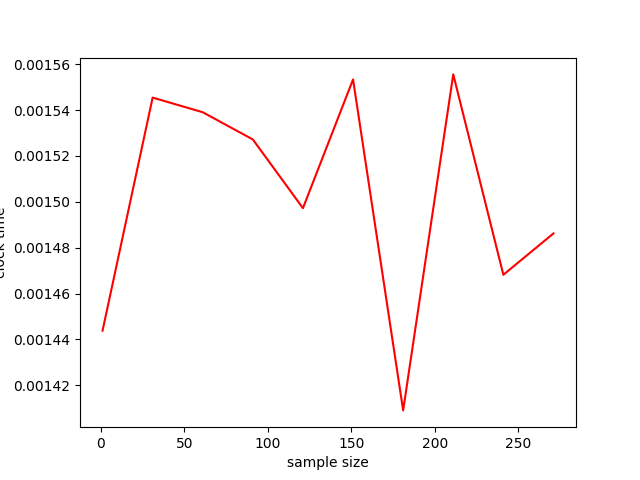
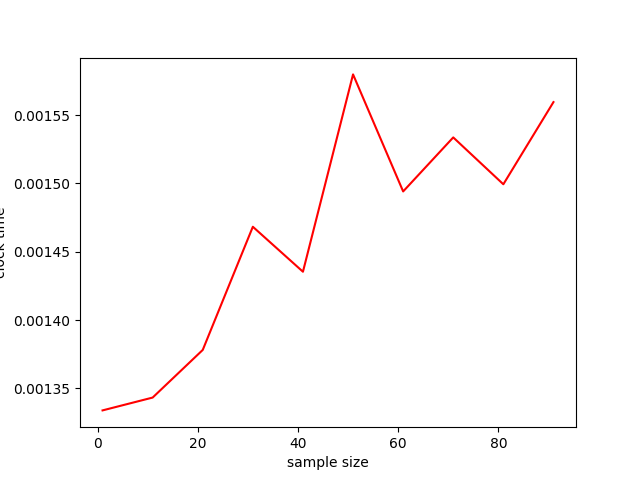
sfds

diff --git a/HW_2/HW2_adv.py b/HW_2/HW2_adv.py
@@ -102,7 +102,7 @@ def RHC(problem, prob_name):
         print(prob_name, "RHC:", i)
         best_state_RHC, best_fitness_RHC = mlrose.random_hill_climb(problem,
                                                                     max_attempts=10,
-                                                                    max_iters=int(i/10)+1,
+                                                                    max_iters=i,
                                                                     restarts=0,
                                                                     init_state=None,
                                                                     curve=False,
@@ -135,7 +135,7 @@ def SA(problem, prob_name):
         best_state_SA, best_fitness_SA = mlrose.simulated_annealing(problem,
                                                                     schedule=mlrose.ExpDecay(),
                                                                     max_attempts=10,
-                                                                    max_iters=int(i/10)+1,
+                                                                    max_iters=i,
                                                                     random_state=1)
         best_state_SA_att, best_fitness_SA_att = mlrose.simulated_annealing(problem,
                                                                             schedule=mlrose.ExpDecay(),
@@ -167,7 +167,7 @@ def GA(problem, prob_name):
                                                             pop_size=200,
                                                             mutation_prob=0.1,
                                                             max_attempts=10,
-                                                            max_iters=int(i/10)+1,
+                                                            max_iters=i,
                                                             curve=False,
                                                             random_state=0)
         best_state_GA_att, best_fitness_GA_att = mlrose.genetic_alg(problem,
@@ -224,7 +224,7 @@ def MI(problem, prob_name):
                                                                      pop_size=200,
                                                                      keep_pct=0.2,
                                                                      max_attempts=10,
-                                                                     max_iters=int(i/10)+1,
+                                                                     max_iters=i,
                                                                      curve=False,
                                                                      random_state=1)
         except:
@@ -291,7 +291,6 @@ def MI(problem, prob_name):
 def plotting(prob_name, algo_name, valuess, size_plot = False):
     size_plot = size_plot
     if (prob_name == "nCityTSP") or (prob_name == "MaxKColor"):
-        print("sdfsdf")
         for value in valuess:
             if size_plot == True:
                 if value[3] == "clock time":
@@ -321,7 +320,6 @@ def plotting(prob_name, algo_name, valuess, size_plot = False):
             plt.gcf().clear()
 
     else:
-
         for value in valuess:
             if size_plot == True:
                 if value[3] == "clock time":
@@ -508,9 +506,11 @@ def prob_to_curves(prob_name, problem_list):
 
 def size_test_OneMax_RHC():
     time_mean_list = []
+    time_std_list = []
     best_fitness_mean_list = []
+    best_fitness_std_list = []
     alter_list = []
-    for i in range(1, 300, 30):
+    for i in range(1, 300, 100):
         problem_list = generate_prob_OneMax(random_seed=0, length = i, sample_size=5)
         time_list = []
         best_fitness_list = []
@@ -531,13 +531,25 @@ def size_test_OneMax_RHC():
             best_fitness_list.append(best_fitness)
 
         time_mean = np.mean(time_list)
+        time_std = np.std(time_list)
         best_fitness_mean = np.mean(best_fitness_list)
+        best_fitness_std = np.std(best_fitness_list)
         time_mean_list.append(time_mean)
+        time_std_list.append(time_std)
         best_fitness_mean_list.append(best_fitness_mean)
+        best_fitness_std_list.append(best_fitness_std)
         alter_list.append(i)
 
-    return np.array([[alter_list, time_mean_list, "sample size", "clock time"],
-                     [alter_list, best_fitness_mean_list, "sample_size", "best_fitness"]])
+    # return np.array([[alter_list, time_mean_list, "sample size", "clock time"],
+    #                  [alter_list, time_std_list, "sample size", "clock time std"],
+    #                  [alter_list, best_fitness_mean_list, "sample_size", "best_fitness"],
+    #                  [alter_list, best_fitness_std_list, "sample_size", "best_fitness_std"]])
+    return "sample_size", np.array([alter_list]), \
+           "clock time", np.array([time_mean_list]),\
+           "clock time std", np.array([time_std_list]), \
+           "best fitness", np.array([best_fitness_mean_list]), \
+           "best fitness std", np.array([best_fitness_std_list])
+
 def size_test_OneMax_SA():
     time_mean_list = []
     best_fitness_mean_list = []
@@ -1569,7 +1581,7 @@ def size_test_queens_MI():
 
 if __name__=="__main__":
 
-    # plotting(prob_name="OneMax", algo_name="RHC", valuess=size_test_OneMax_RHC(), size_plot=True)
+    plotting(prob_name="OneMax", algo_name="RHC", valuess=size_test_OneMax_RHC(), size_plot=True)
     # plotting(prob_name="OneMax", algo_name="SA", valuess=size_test_OneMax_SA(), size_plot=True)
     # plotting(prob_name="OneMax", algo_name="GA", valuess=size_test_OneMax_GA(), size_plot=True)
     # plotting(prob_name="OneMax", algo_name="MI", valuess=size_test_OneMax_MI(), size_plot=True)  # neet to rerun this
@@ -1609,46 +1621,46 @@ if __name__=="__main__":
     # plotting(prob_name="queens", algo_name="GA", valuess=size_test_queens_GA(), size_plot=True)
     # plotting(prob_name="queens", algo_name="MI", valuess=size_test_queens_MI(), size_plot=True)
 
-    '''Problem 1: n-city TSP: over a map of given size,
-    generate N cities for a salesman to travel through each city and find the shortest route'''
-    problem_list_TSP = generate_prob_TSP(random_seed=0, citys=6, sample_size=5)
-    prob_to_curves("nCityTSP", problem_list_TSP)
+    # '''Problem 1: n-city TSP: over a map of given size,
+    # generate N cities for a salesman to travel through each city and find the shortest route'''
+    # problem_list_TSP = generate_prob_TSP(random_seed=0, citys=6, sample_size=5)
+    # prob_to_curves("nCityTSP", problem_list_TSP)
+    #
+    # '''Problem 2: Max-k color optimization problem. Evaluates the fitness of an n-dimensional state vector
+    # 𝑥 = [𝑥0, 𝑥1, . . . , 𝑥𝑛−1], where 𝑥𝑖 represents the color of node i, as the number of pairs of adjacent nodes of the
+    # same color.'''
+    # problem_list_MKC = generate_prob_MKC(random_seed=0, nodes=8, sample_size=5)
+    # prob_to_curves("MaxKColor", problem_list_MKC)
+    #
+    # '''Problem 3: 4 peaks
+    # # Create list of states with random t_pct'''
+    # problem_list_4peaks = generate_prob_4peaks(random_seed=0, length=10, sample_size=5)
+    # prob_to_curves("4peaks", problem_list_4peaks)
 
-    '''Problem 2: Max-k color optimization problem. Evaluates the fitness of an n-dimensional state vector
-    𝑥 = [𝑥0, 𝑥1, . . . , 𝑥𝑛−1], where 𝑥𝑖 represents the color of node i, as the number of pairs of adjacent nodes of the
-    same color.'''
-    problem_list_MKC = generate_prob_MKC(random_seed=0, nodes=8, sample_size=5)
-    prob_to_curves("MaxKColor", problem_list_MKC)
+    # '''Problem 4: continous peaks
+    # # Create list of states with random t_pct'''
+    # problem_list_Cpeaks = generate_prob_Cpeaks(random_seed=0, length=10, sample_size=5)
+    # prob_to_curves("Cpeaks", problem_list_Cpeaks)
 
-    '''Problem 3: 4 peaks
-    # Create list of states with random t_pct'''
-    problem_list_4peaks = generate_prob_4peaks(random_seed=0, length=10, sample_size=5)
-    prob_to_curves("4peaks", problem_list_4peaks)
+    # '''Problem 5: OneMax
+    # # Create an array made by 0 and 1, with a length between 10 and 50'''
+    # problem_list_OneMax = generate_prob_OneMax(random_seed=0, length=10, sample_size= 5)
+    # prob_to_curves("OneMax", problem_list_OneMax)
 
-    '''Problem 4: continous peaks
-    # Create list of states with random t_pct'''
-    problem_list_Cpeaks = generate_prob_Cpeaks(random_seed=0, length=10, sample_size=5)
-    prob_to_curves("Cpeaks", problem_list_Cpeaks)
+    # '''Problem 6: Flip-Flop
+    # # Create list of states '''
+    # problem_list_FlipFlop = generate_prob_FlipFlop(random_seed=0, length=10, sample_size=5)
+    # prob_to_curves("FlipFlop", problem_list_FlipFlop)
+    #
+    # '''Problem 7: Knap-sack
+    # # Create list of states '''
+    # problem_list_Knapsack = generate_prob_KnapSack(random_seed=0, length=10, sample_size=5)
+    # prob_to_curves("Knapsack", problem_list_Knapsack)
 
-    '''Problem 5: OneMax
-    # Create an array made by 0 and 1, with a length between 10 and 50'''
-    problem_list_OneMax = generate_prob_OneMax(random_seed=0, length=10, sample_size= 5)
-    prob_to_curves("OneMax", problem_list_OneMax)
-
-    '''Problem 6: Flip-Flop
-    # Create list of states '''
-    problem_list_FlipFlop = generate_prob_FlipFlop(random_seed=0, length=10, sample_size=5)
-    prob_to_curves("FlipFlop", problem_list_FlipFlop)
-
-    '''Problem 7: Knap-sack
-    # Create list of states '''
-    problem_list_Knapsack = generate_prob_KnapSack(random_seed=0, length=10, sample_size=5)
-    prob_to_curves("Knapsack", problem_list_Knapsack)
-
-    '''Problem 8: Queens
-    # Create list of states '''
-    problem_list_queens = generate_prob_queens(random_seed=0, length=10, sample_size=5)
-    prob_to_curves("Kqueens", problem_list_queens)
+    # '''Problem 8: Queens
+    # # Create list of states '''
+    # problem_list_queens = generate_prob_queens(random_seed=0, length=10, sample_size=5)
+    # prob_to_curves("Kqueens", problem_list_queens)
 
 
 
